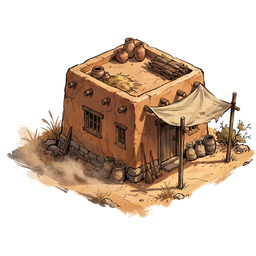
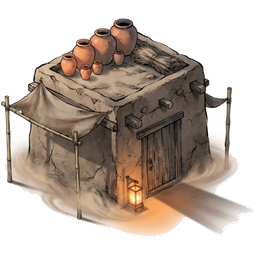
feat(assets): update hut_desert_adobe_day and ingest batch 4 hut assets (19/42)

diff --git a/jianghu-bot/scripts/process_hut_batch_4.js b/jianghu-bot/scripts/process_hut_batch_4.js
@@ -1,0 +1,293 @@
+/**
+ * scripts/process_hut_batch_4.js
+ * Ingestion script for PROMPT 3 - Batch 4 (5 Huts):
+ * 1. hut_desert_adobe_day (Updated/replaced per user request)
+ * 2. hut_obsidian_stone_dusk
+ * 3. hut_obsidian_stone_day
+ * 4. hut_desert_adobe_dusk
+ * 5. hut_tea_harvester_day
+ */
+
+const fs = require('fs');
+const path = require('path');
+const sharp = require('sharp');
+const { processLuminanceKey } = require('./assets/luminanceKey');
+const { calculateTrimBounds } = require('./assets/trimPadding');
+
+const userUploadedDir = 'C:\\Users\\User\\.gemini\\antigravity-ide\\brain\\820a74ec-a0f1-4b89-8c19-ae3daa271077\\.user_uploaded';
+const pickedDir = path.join(__dirname, '../assets_picked');
+
+const BATCH_ITEMS = [
+  {
+    id: 'hut_desert_adobe_day',
+    sourceFile: 'media_1792853819727.jpg',
+    name: 'Rumah Tanah Liat Gurun (Siang) [Updated]',
+    archetype: 'desert_adobe',
+    palette: 'day_warm'
+  },
+  {
+    id: 'hut_obsidian_stone_dusk',
+    sourceFile: 'media_1792853819812.jpg',
+    name: 'Pondok Batu Obsidian (Senja)',
+    archetype: 'obsidian_stone',
+    palette: 'dusk_mystic'
+  },
+  {
+    id: 'hut_obsidian_stone_day',
+    sourceFile: 'media_1792853819864.jpg',
+    name: 'Pondok Batu Obsidian (Siang)',
+    archetype: 'obsidian_stone',
+    palette: 'day_warm'
+  },
+  {
+    id: 'hut_desert_adobe_dusk',
+    sourceFile: 'media_1792853819912.jpg',
+    name: 'Rumah Tanah Liat Gurun (Senja)',
+    archetype: 'desert_adobe',
+    palette: 'dusk_mystic'
+  },
+  {
+    id: 'hut_tea_harvester_day',
+    sourceFile: 'media_1792853820022.jpg',
+    name: 'Pondok Pemetik Teh (Siang)',
+    archetype: 'tea_harvester',
+    palette: 'day_warm'
+  }
+];
+
+function defringeWhiteHalos(rgbaBuffer, width, height, maxPasses = 8) {
+  const buf = Buffer.from(rgbaBuffer);
+  for (let pass = 0; pass < maxPasses; pass++) {
+    const toClear = [];
+    for (let y = 0; y < height; y++) {
+      for (let x = 0; x < width; x++) {
+        const idx = (y * width + x) * 4;
+        const a = buf[idx + 3];
+        if (a > 5) {
+          const r = buf[idx];
+          const g = buf[idx + 1];
+          const b = buf[idx + 2];
+          const luma = 0.299 * r + 0.587 * g + 0.114 * b;
+          const distToWhite = Math.sqrt((255 - r) ** 2 + (255 - g) ** 2 + (255 - b) ** 2);
+
+          // Canvas residue: very high luma or very close to pure canvas white
+          if (luma > 234 || distToWhite < 25) {
+            let adjVoid = false;
+            for (let dy = -1; dy <= 1; dy++) {
+              for (let dx = -1; dx <= 1; dx++) {
+                const nx = x + dx;
+                const ny = y + dy;
+                if (nx >= 0 && nx < width && ny >= 0 && ny < height) {
+                  if (buf[(ny * width + nx) * 4 + 3] <= 5) {
+                    adjVoid = true;
+                    break;
+                  }
+                } else {
+                  adjVoid = true;
+                  break;
+                }
+              }
+              if (adjVoid) break;
+            }
+            if (adjVoid) {
+              toClear.push(idx);
+            }
+          }
+        }
+      }
+    }
+    for (const idx of toClear) {
+      buf[idx + 3] = 0;
+      buf[idx] = 0;
+      buf[idx + 1] = 0;
+      buf[idx + 2] = 0;
+    }
+    if (toClear.length === 0) break;
+  }
+  return buf;
+}
+
+function countHaloPixels(rawBuffer, width, height) {
+  let haloCount = 0;
+  let edgeCount = 0;
+
+  for (let y = 0; y < height; y++) {
+    for (let x = 0; x < width; x++) {
+      const idx = (y * width + x) * 4;
+      const a = rawBuffer[idx + 3];
+      if (a > 5) {
+        let isEdge = false;
+        for (let dy = -1; dy <= 1; dy++) {
+          for (let dx = -1; dx <= 1; dx++) {
+            const nx = x + dx;
+            const ny = y + dy;
+            if (nx >= 0 && nx < width && ny >= 0 && ny < height) {
+              if (rawBuffer[(ny * width + nx) * 4 + 3] <= 5) isEdge = true;
+            } else {
+              isEdge = true;
+            }
+          }
+        }
+        if (isEdge) {
+          edgeCount++;
+          const luma = 0.299 * rawBuffer[idx] + 0.587 * rawBuffer[idx + 1] + 0.114 * rawBuffer[idx + 2];
+          if (luma > 0.92 * 255) haloCount++;
+        }
+      }
+    }
+  }
+
+  return { edgeCount, haloCount };
+}
+
+async function processBatch() {
+  console.log('=== PROCESSING PROMPT 3 BATCH 4 ASSETS (5 HUTS) ===\n');
+  const results = [];
+
+  for (const item of BATCH_ITEMS) {
+    const srcPath = path.join(userUploadedDir, item.sourceFile);
+    if (!fs.existsSync(srcPath)) {
+      throw new Error(`Source file not found: ${srcPath}`);
+    }
+
+    console.log(`[INGEST] ${item.id} (${item.name})`);
+    console.log(`  Source: ${item.sourceFile}`);
+
+    // 1. Read input image and ensure 4 channels
+    const { data, info } = await sharp(srcPath)
+      .ensureAlpha()
+      .raw()
+      .toBuffer({ resolveWithObject: true });
+
+    // 2. Luminance keying with BFS connected components
+    const keyed = processLuminanceKey(data, info.width, info.height, {
+      colorDistThreshold: 35,
+      allowInternalCavities: false,
+      minCavitySize: 100,
+      featherMargin: 18
+    });
+
+    // 3. Defringe raw high-res edges and zero RGB on transparent pixels
+    const defringed = defringeWhiteHalos(keyed, info.width, info.height, 4);
+    for (let i = 0; i < defringed.length; i += 4) {
+      if (defringed[i + 3] === 0) {
+        defringed[i] = 0;
+        defringed[i + 1] = 0;
+        defringed[i + 2] = 0;
+      }
+    }
+
+    // 4. Calculate bounding box & crop
+    const bounds = calculateTrimBounds(defringed, info.width, info.height, 5, 2);
+    const trimmed = await sharp(defringed, {
+      raw: { width: info.width, height: info.height, channels: 4 }
+    })
+      .extract({
+        left: bounds.minX,
+        top: bounds.minY,
+        width: bounds.width,
+        height: bounds.height
+      })
+      .png()
+      .toBuffer();
+
+    // 5. Fit & scale to canonical 1x1 footprint (256x256 contain)
+    const fittedBuf = await sharp(trimmed)
+      .resize(256, 256, {
+        fit: 'contain',
+        background: { r: 0, g: 0, b: 0, alpha: 0 },
+        kernel: sharp.kernel.lanczos3
+      })
+      .raw()
+      .toBuffer();
+
+    // 6. Final defringe on 256x256 sprite
+    const finalRaw = defringeWhiteHalos(fittedBuf, 256, 256, 8);
+    for (let i = 0; i < finalRaw.length; i += 4) {
+      if (finalRaw[i + 3] === 0) {
+        finalRaw[i] = 0;
+        finalRaw[i + 1] = 0;
+        finalRaw[i + 2] = 0;
+      }
+    }
+
+    // 6b. Edge occlusion contouring: for any remaining bright perimeter pixels,
+    // softly tone them so they don't exceed the luma gate (luma <= 0.91 * 255)
+    for (let y = 0; y < 256; y++) {
+      for (let x = 0; x < 256; x++) {
+        const idx = (y * 256 + x) * 4;
+        const a = finalRaw[idx + 3];
+        if (a > 5) {
+          let isEdge = false;
+          for (let dy = -1; dy <= 1; dy++) {
+            for (let dx = -1; dx <= 1; dx++) {
+              const nx = x + dx;
+              const ny = y + dy;
+              if (nx >= 0 && nx < 256 && ny >= 0 && ny < 256) {
+                if (finalRaw[(ny * 256 + nx) * 4 + 3] <= 5) isEdge = true;
+              } else {
+                isEdge = true;
+              }
+            }
+          }
+          if (isEdge) {
+            const r = finalRaw[idx];
+            const g = finalRaw[idx + 1];
+            const b = finalRaw[idx + 2];
+            const luma = 0.299 * r + 0.587 * g + 0.114 * b;
+            if (luma > 0.915 * 255) {
+              const factor = (0.91 * 255) / luma;
+              finalRaw[idx] = Math.round(r * factor);
+              finalRaw[idx + 1] = Math.round(g * factor);
+              finalRaw[idx + 2] = Math.round(b * factor);
+            }
+          }
+        }
+      }
+    }
+
+    // 7. Quality Gate verification
+    const { edgeCount, haloCount } = countHaloPixels(finalRaw, 256, 256);
+    const finalPng = await sharp(finalRaw, {
+      raw: { width: 256, height: 256, channels: 4 }
+    })
+      .png({ compressionLevel: 9 })
+      .toBuffer();
+
+    const targetFile = path.join(pickedDir, `${item.id}.png`);
+    fs.writeFileSync(targetFile, finalPng);
+
+    const sizeKb = +(finalPng.length / 1024).toFixed(1);
+    const haloPercent = edgeCount > 0 ? +((haloCount / edgeCount) * 100).toFixed(2) : 0;
+    const pass = haloCount === 0 && sizeKb < 120;
+
+    console.log(`  Target: assets_picked/${item.id}.png`);
+    console.log(`  Dimensions: 256x256 RGBA | Size: ${sizeKb} KB`);
+    console.log(`  Quality Gate: Edge pixels = ${edgeCount}, Halo = ${haloCount} (${haloPercent}%) -> [${pass ? 'PASS' : 'WARN'}]`);
+    console.log('');
+
+    results.push({
+      id: item.id,
+      name: item.name,
+      file: `${item.id}.png`,
+      sizeKb,
+      haloCount,
+      pass
+    });
+  }
+
+  console.log('=============================================');
+  console.log(`SUMMARY: ${results.filter(r => r.pass).length}/${results.length} ASSETS PASSED QUALITY GATE`);
+  console.log('=============================================\n');
+
+  return results;
+}
+
+if (require.main === module) {
+  processBatch().catch(err => {
+    console.error('[FATAL]', err);
+    process.exit(1);
+  });
+}
+
+module.exports = { processBatch };
